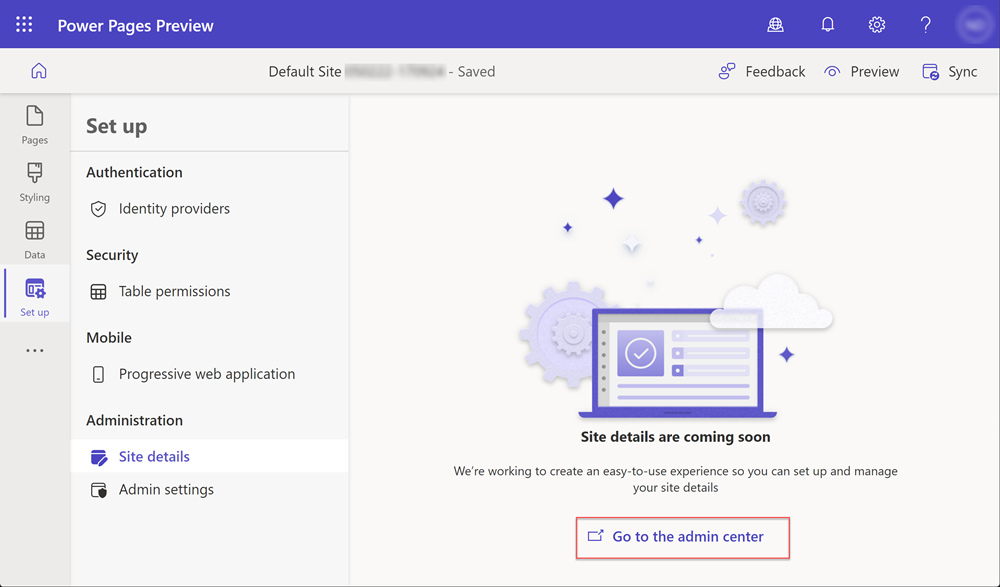
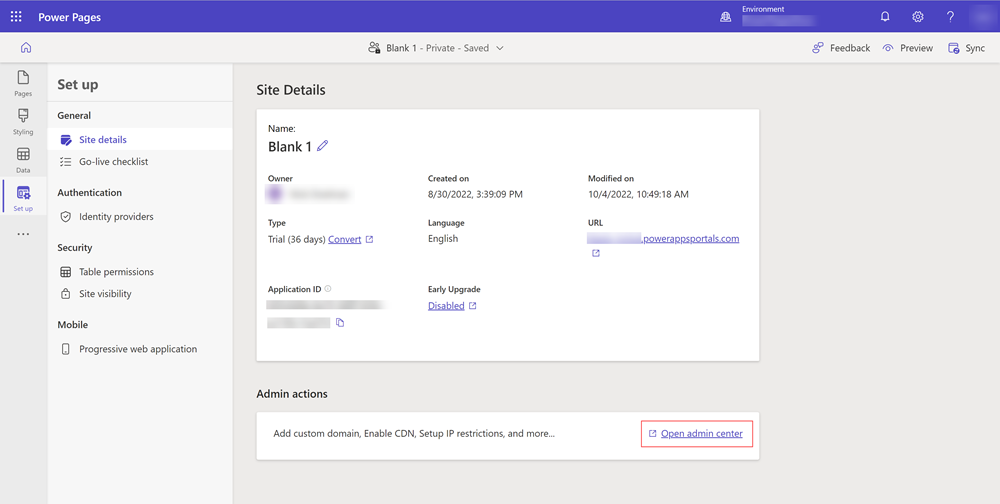
2947033

diff --git a/power-pages-docs/admin/admin-overview.md b/power-pages-docs/admin/admin-overview.md
@@ -1,10 +1,10 @@
 ---
-title: Use the portals admin center
-description: Learn how to use the portals admin center
+title: Use the admin center
+description: Learn how to use the Power Pages admin center
 author: neerajnandwana-msft
 ms.topic: conceptual
 ms.custom: 
-ms.date: 10/03/2022
+ms.date: 10/04/2022
 ms.author: nenandw
 ms.reviewer: ndoelman
 contributors:
@@ -12,19 +12,78 @@ contributors:
     - ProfessorKendrick
 ---
 
-# Use the portals admin center
+# Use the admin center
 
 [!INCLUDE[cc-beta-prerelease-disclaimer](../includes/cc-beta-prerelease-disclaimer.md)]
 
 [!INCLUDE[powerapps-info](../includes/cc-powerapps-info.md)]
 
-Power Pages uses the Power Apps portals admin center to provide administrators with various capabilities.
+Power Pages uses the Power Platform admin center to provide administrators with various site configuration capabilities.
 
 1. To access the admin center, from the design studio, select the **Set up** workspace.
 
-1. In the **Administration** section, select either **Site details** or **Admin settings**, and then select **Go to the admin center**.
+1. In the **Site Details** section, select **Open admin center**.
 
-    :::image type="content" source="media/admin-center.png" alt-text="Navigating to the Power Pages admin center.":::
+    :::image type="content" source="media/admin-center.png" alt-text="Navigating to the Power Platform admin center.":::
 
-For detailed information on how to use the portals admin center, go to [Power Apps portals admin center](/powerapps/maker/portals/admin/admin-overview) in the Power Apps documentation.
+1. This will open up the **Power Platform admin center** and allow you to configure your site.
+
+    :::image type="content" source="media/power-platform-admin-center.png" alt-text="Power Platform admin center.":::
+
+The following capabilities are accessible from the admin center. More information on these features may be linked to the Power Apps documentation.
+
+## Site Actions
+
+| Action | More Information |
+| - | - |
+| Restart site | Restart the site. |
+| Shut down this site | Turn off the site. |
+| Delete this site | See [Delete a portal](/power-apps/maker/portals/admin/reset-portal#delete-a-portal) |
+| Disable custom errors | See [Disable custom errors](/power-apps/maker/portals/admin/view-portal-error-log#disable-custom-error) |
+| Enable diagnostic logs | See [Enable diagnostic logging](/power-apps/maker/portals/admin/view-portal-error-log#enable-diagnostic-logging)
+| Enable maintenance mode | See [Maintenance mode for a portal](/power-apps/maker/portals/admin/enable-maintenance-mode)
+| Manage Dynamics 365 Instance | See [Update the Dynamics 365 instance for your portal](/power-apps/maker/portals/admin/update-dynamics365-instance) |
+| Update Dynamics 365 URL | |
+| Metadata translations | See [Import metadata translation](/power-apps/maker/portals/admin/import-metadata-translation)
+| Install Field Service Extension | See [Integrate Field Service](/power-apps/maker/portals/customer-engagement-apps/integrate-field-service) |
+| Install Project Service Extension | See [Integrate Project Service Automation](/power-apps/maker/portals/customer-engagement-apps/integrate-project-service-automation) |
+| Switch to classic | Switch the to classic [portals admin center](/powerapps/maker/portals/admin/admin-overview) |
+
+## Site Details
+
+| Action | More Information |
+| - | - |
+| Edit | Edit site details. |
+| Connect Custom Domain | See [Add a custom domain name](/power-apps/maker/portals/admin/add-custom-domain) |
+| Convert to Production | See [Convert a portal](/power-apps/maker/portals/admin/convert-portal) |
+
+## Security
+
+| Action | More Information |
+| - | - |
+| IP Restrictions | See [Restrict portal access by IP address](/power-apps/maker/portals/admin/ip-address-restrict) |
+| Custom Certificates | See [Manage custom certificates](/power-apps/maker/portals/admin/manage-custom-certificates) |
+| Website Authentication Key | See [Manage portal authentication key](/power-apps/maker/portals/admin/manage-auth-key) |
+| Manage Site Visibility Permissions | See [Site visibility in Power Pages](../security/site-visibility.md) |
+
+## Site Health
+
+| Action | More Information |
+| - | - |
+| Site Checker | See [Run Portal Checker](/power-apps/maker/portals/admin/portal-checker) |
+
+## Performance & Protection
+
+| Action | More Information |
+| - | - |
+| Content Delivery Network | See [Content Delivery Network](/power-apps/maker/portals/configure/configure-cdn) |
+| Web Application Firewall | |
+
+## Services
+
+| Action | More Information |
+| - | - |
+| Power BI Visualization | See [Enable Power BI visualization](/power-apps/maker/portals/admin/set-up-power-bi-integration#enable-power-bi-visualization) |
+| Power BI Embedded Service | See [Enable Power BI Embedded service](/power-apps/maker/portals/admin/set-up-power-bi-integration#enable-power-bi-embedded-service) |
+| SharePoint Integration | See [Manage SharePoint documents](/power-apps/maker/portals/manage-sharepoint-documents) |
 
